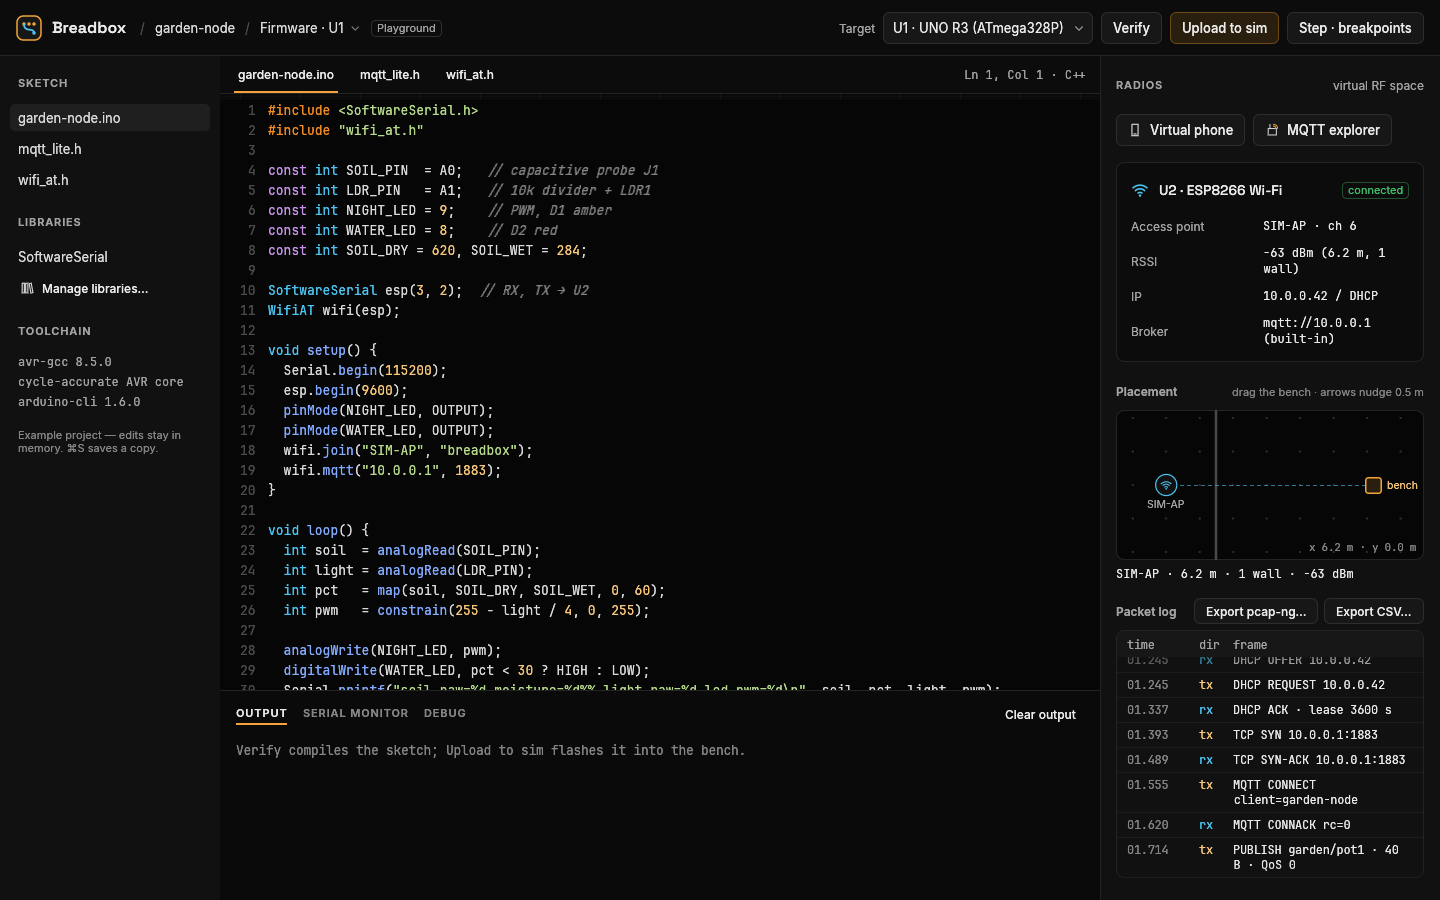
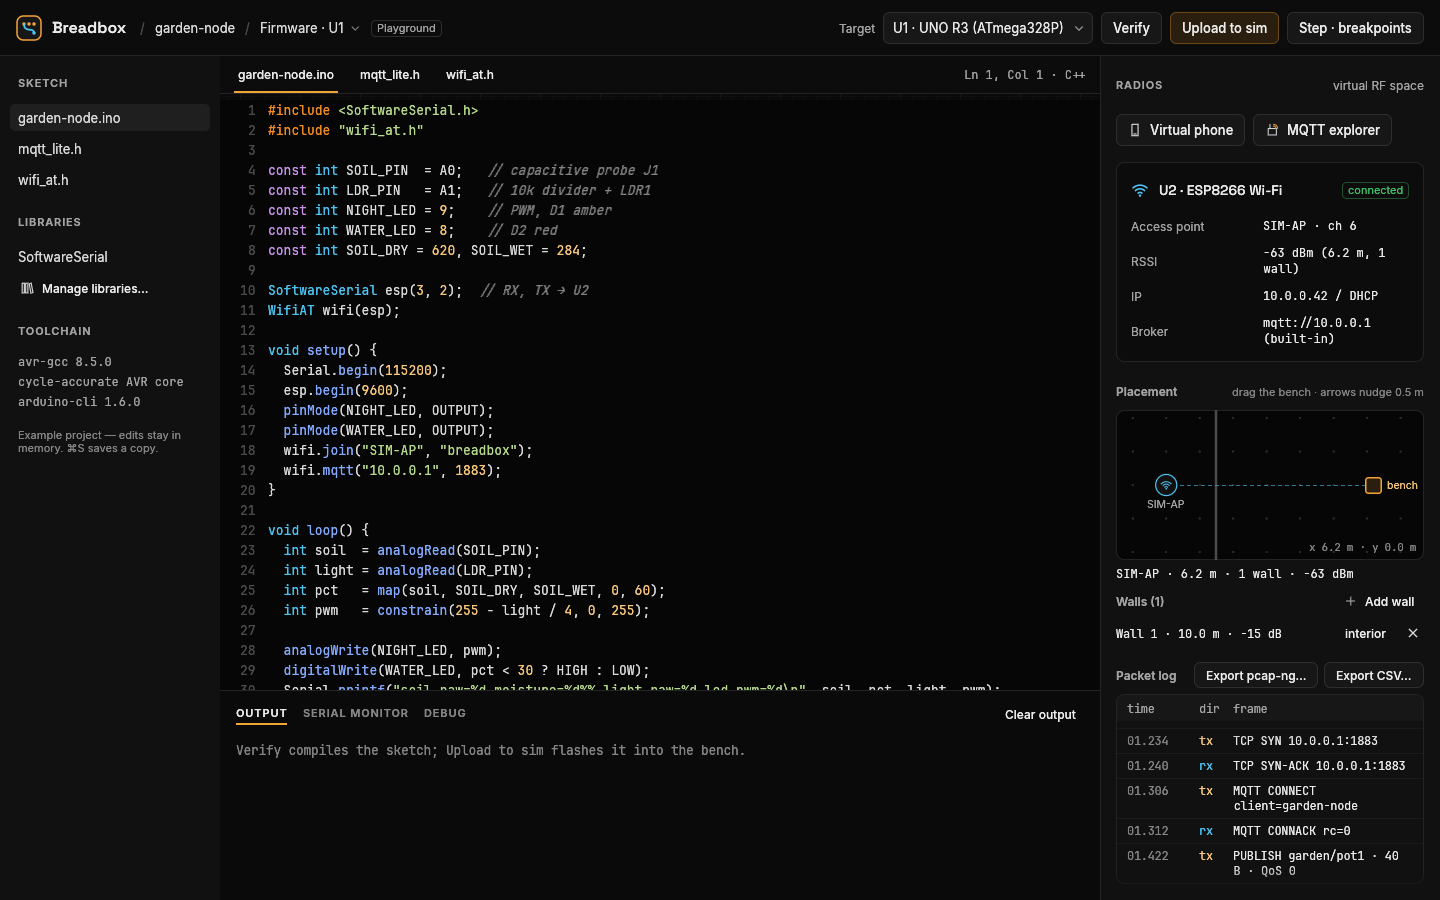
Pro starter netlist says it builds the schematic; screenshots: Radios panel with walls, new Pro project, typed netlist → schematic

Changed region(s): [[0.7812, 0.6533, 1.0, 0.9644]]

diff --git a/crates/breadbox/src/project.rs b/crates/breadbox/src/project.rs
@@ -568,7 +568,8 @@ pub fn default_projects_dir() -> PathBuf {
 /// that says what to do, an RC low-pass to start from, and `.op`.
 pub fn starter_netlist(name: &str) -> String {
     format!(
-        "* {name} — type a SPICE netlist; it is saved with the project.\n\
+        "* {name} — type a SPICE netlist: it is saved with the project and builds the\n\
+         * schematic (Schematic tab) as you type.\n\
          * Analyses on the right add / switch dot-cards (.tran, .dc, .ac, .mc, .noise, .op).\n\
          *\n\
          * For example, an RC low-pass (fc = 1 / (2 pi R C) = 1 kHz):\n\
